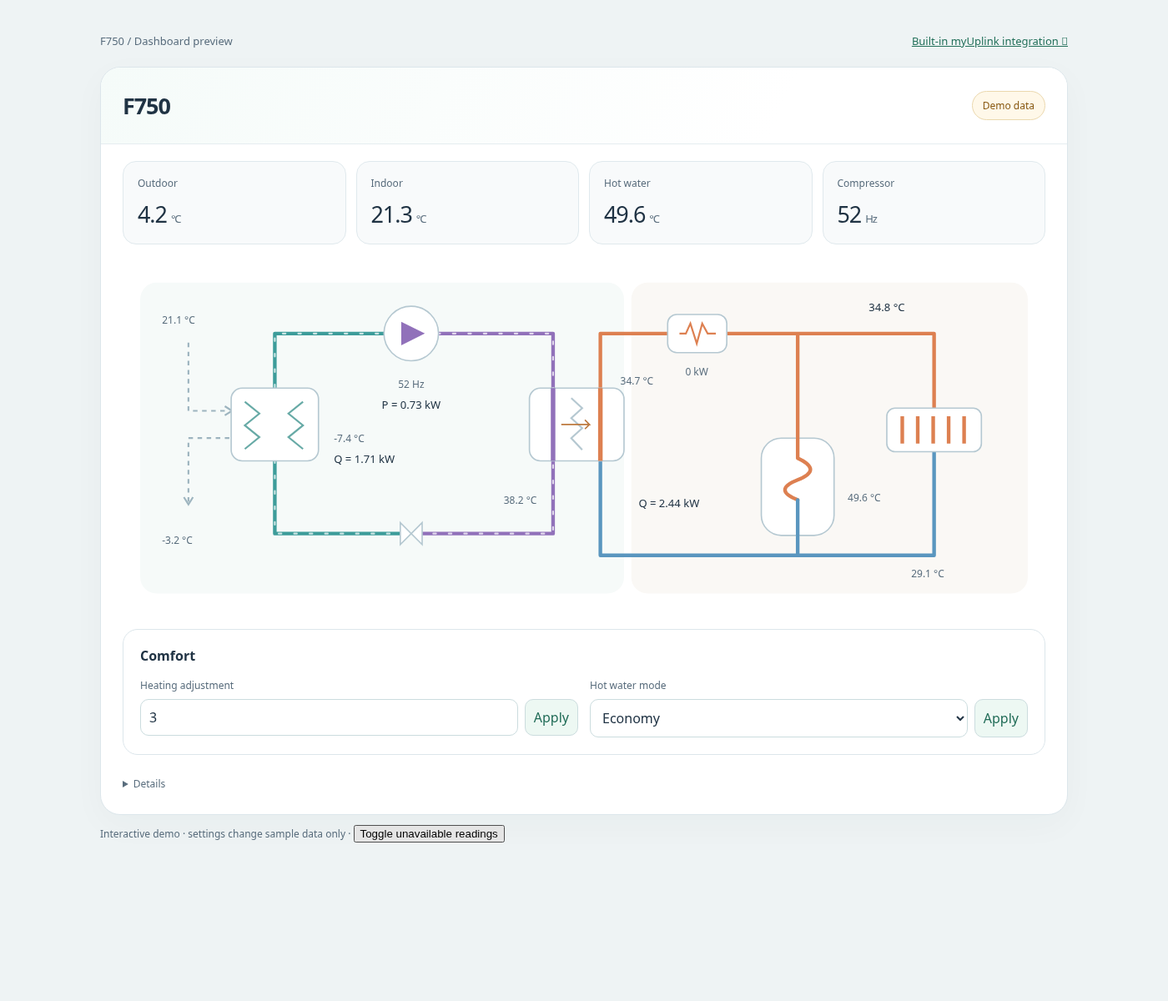
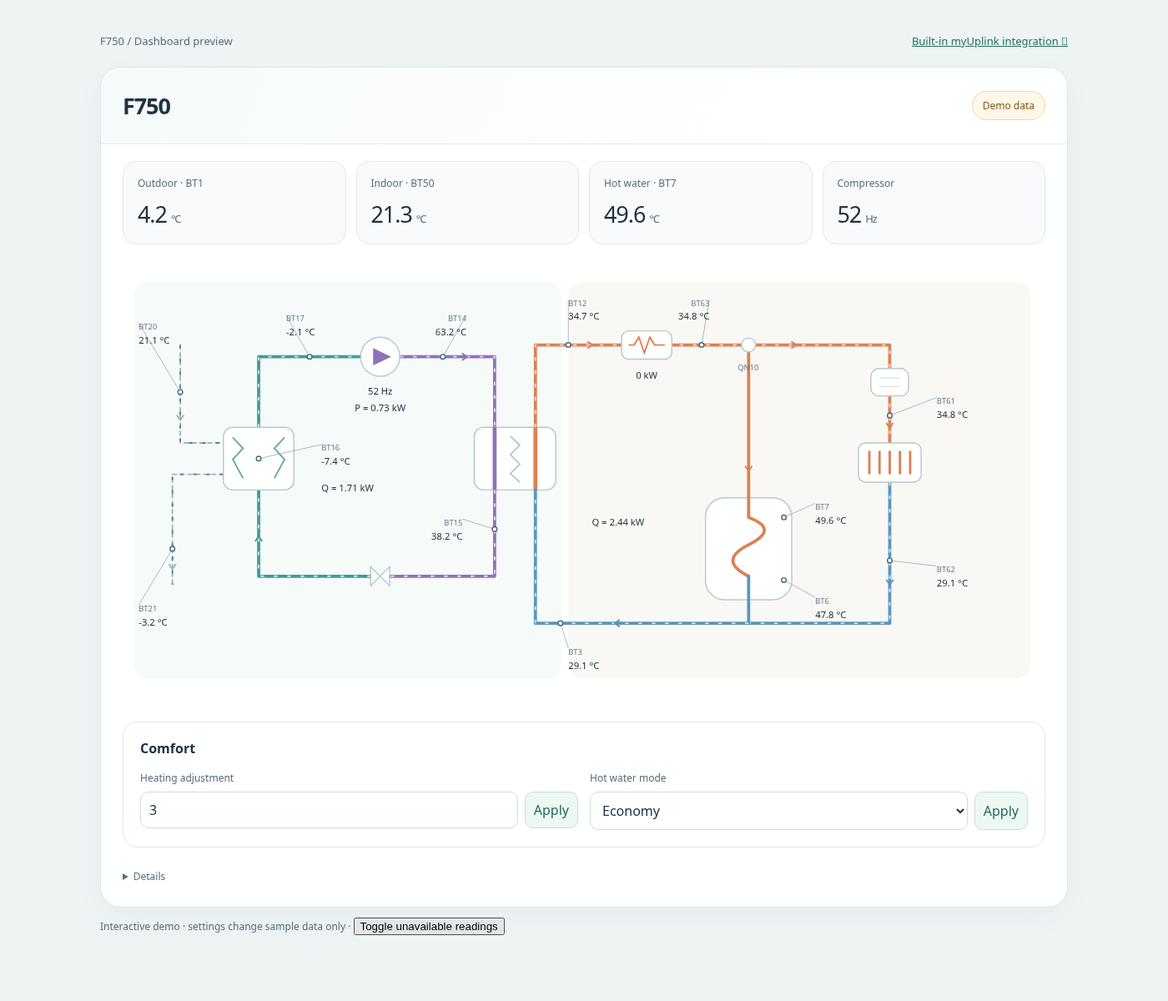
Correct F750 sensor positions and common heater topology; animate directed flows

diff --git a/dist/nibe-f750-card.js b/dist/nibe-f750-card.js
@@ -10,10 +10,12 @@ const readings = {
   operation: ['Operating mode', ''],
   condenser_water_out: ['Condenser water outlet', '°C'], air_flow: ['Extract airflow', ''],
   reference_air_flow: ['Reference airflow', ''],
+  hot_water_charge: ['Hot water control', '°C'], hot_gas: ['Hot gas', '°C'], suction: ['Suction gas', '°C'],
+  heating_supply: ['Heating supply after buffer', '°C'], heating_return: ['Heating return after buffer', '°C'], heater_out: ['Water after immersion heater', '°C'],
 };
 // F750 parameter IDs; myUplink unique IDs are `${device_id}-${parameter_id}`.
 // References and compatibility notes: docs/discovery.md.
-const points = {outdoor:['40004'],room:['40033'],hot_water:['40013','40014'],supply:['40008'],return:['40012'],exhaust_air:['40025'],leaving_air:['40026'],evaporator:['40020'],condenser:['40019'],compressor_frequency:['43136'],heater_power:['43084'],operation:['49994'],condenser_water_out:['40017'],air_flow:['40050'],reference_air_flow:['43124']};
+const points = {outdoor:['40004'],room:['40033'],hot_water:['40013'],supply:['40008'],return:['40012'],exhaust_air:['40025'],leaving_air:['40026'],evaporator:['40020'],condenser:['40019'],compressor_frequency:['43136'],heater_power:['43084'],operation:['49994'],condenser_water_out:['40017'],air_flow:['40050'],reference_air_flow:['43124'],hot_water_charge:['40014'],hot_gas:['40018'],suction:['40022'],heating_supply:['40047'],heating_return:['40048'],heater_out:[]};
 // API names can vary from the older F-series register catalog. Match only
 // explicit measurement names/BT designations, scoped to the selected device.
 const aliases = {
@@ -32,6 +34,12 @@ const aliases = {
   condenser_water_out: [/(?:^| )bt12 (?:condensor|condenser) out$/, /(?:^| )(?:condenser|condensor) (?:out|outlet|water outlet|outlet temperature)(?: bt12)?$/],
   air_flow: [/(?:^| )bs1 air flow$/, /(?:^| )(?:extract|exhaust) air ?flow$/],
   reference_air_flow: [/(?:^| )reference air speed sensor$/, /(?:^| )reference air ?flow$/, /(?:^| )air ?flow (?:ref|reference)$/],
+  hot_water_charge: [/(?:^| )hot water (?:charging|control)(?: bt6)?$/, /(?:^| )bt6 hw load$/],
+  hot_gas: [/(?:^| )(?:bt14 )?hot gas temp(?:erature)?(?: bt14)?$/],
+  suction: [/(?:^| )(?:bt17 )?suction(?: gas)?(?: temp(?:erature)?)?(?: bt17)?$/],
+  heating_supply: [/(?:^| )bt61 supply radiator temp$/, /(?:^| )(?:heating medium flow|supply temperature) after buffer(?: vessel)?(?: bt61)?$/, /(?:^| )bt61$/],
+  heating_return: [/(?:^| )bt62 return radiator temp$/, /(?:^| )(?:heating medium return|return temperature) after buffer(?: vessel)?(?: bt62)?$/, /(?:^| )bt62$/],
+  heater_out: [/(?:^| )bt63$/, /(?:^| )(?:heating medium supply|supply temperature) after (?:immersion|inline) heater(?: bt63)?$/],
 };
 const normalize = text => String(text || '').toLowerCase().replace(/[\u00ad]/g,'').replace(/[^a-z0-9]+/g,' ').trim();
 export function discoverEntities(registry, deviceId, states = {}) {
@@ -88,9 +96,9 @@ const css = `
 ha-card{display:block;background:#fff;color:#203344;border:1px solid #dce6eb;border-radius:24px;overflow:hidden;box-shadow:0 12px 40px #243c4b08}
 header{display:flex;align-items:center;justify-content:space-between;gap:16px;padding:20px 26px;border-bottom:1px solid #e5edf0;background:linear-gradient(115deg,#f5fbf9,#fff 70%)}.eyebrow{font-size:11px;letter-spacing:.17em;text-transform:uppercase;color:#487468;font-weight:700}h1{font-size:27px;font-weight:550;letter-spacing:-.04em;margin:7px 0}h2{font-size:16px;font-weight:600;margin:0}p{color:#596d7d;font-size:13px;line-height:1.6;margin:6px 0}.pill{display:inline-block;border:1px solid #b7ded2;background:#edf8f3;color:#24715b;border-radius:25px;padding:8px 12px;font-size:12px}.demo{color:#895a14;background:#fff8e9;border-color:#ebd8ae}
 .body{padding:20px 26px}.stats{display:grid;grid-template-columns:repeat(4,1fr);gap:12px;margin-bottom:16px}.stat{padding:17px;border:1px solid #e0e9ed;border-radius:16px;background:#f8fafb}.label{color:#596d7d;font-size:12px}.value{font-size:27px;letter-spacing:-.04em;margin-top:10px}.unit{font-size:13px;color:#596d7d;margin-left:5px}.sub{font-size:11px;color:#596d7d;margin-top:6px}
-.panel{border:1px solid #dce6eb;border-radius:18px;padding:20px;min-width:0}.heading{display:flex;justify-content:space-between;gap:10px;align-items:center}.tag{font-size:10px;text-transform:uppercase;letter-spacing:.1em;color:#596d7d}.legend{display:flex;flex-wrap:wrap;gap:10px 22px;padding:14px 0 0;font-size:11px;color:#526777}.legend span{display:flex;gap:7px;align-items:center}.legend i{width:20px;height:3px;border-radius:4px;background:var(--line)}.scheme-scroll{overflow-x:auto;border-radius:12px;scrollbar-color:#adc8c2 #f1f6f5}.scheme-scroll:focus-visible{outline:2px solid #268b73;outline-offset:3px}.scroll-hint{display:none}.portrait{display:none}svg{display:block;width:100%;min-width:820px;height:auto;margin:12px 0}svg text{font-family:inherit;fill:#203344;font-size:12px}svg .muted{fill:#596d7d;font-size:11px}svg .section-label{fill:#637886;font-size:10px;letter-spacing:1.6px;font-weight:600}svg .node{fill:#fff;stroke:#b5c8d1;stroke-width:1.5}svg .pipe{fill:none;stroke-width:4;stroke-linecap:round;stroke-linejoin:round}svg .ref-high{stroke:#9171ba}svg .ref-low{stroke:#3d9c9a}svg .hot{stroke:#dd8051}svg .cold{stroke:#5a96bf}svg .air{stroke:#9db4bf;stroke-width:2;stroke-dasharray:5 5;fill:none}svg .flow{stroke-dasharray:3 14;stroke:#ffffffbb;stroke-width:2;animation:flow 3s linear infinite}svg .flow.paused{animation:none;stroke:transparent}@keyframes flow{to{stroke-dashoffset:-68}}
+.panel{border:1px solid #dce6eb;border-radius:18px;padding:20px;min-width:0}.heading{display:flex;justify-content:space-between;gap:10px;align-items:center}.tag{font-size:10px;text-transform:uppercase;letter-spacing:.1em;color:#596d7d}.legend{display:flex;flex-wrap:wrap;gap:10px 22px;padding:14px 0 0;font-size:11px;color:#526777}.legend span{display:flex;gap:7px;align-items:center}.legend i{width:20px;height:3px;border-radius:4px;background:var(--line)}.scheme-scroll{overflow-x:auto;border-radius:12px;scrollbar-color:#adc8c2 #f1f6f5}.scheme-scroll:focus-visible{outline:2px solid #268b73;outline-offset:3px}.scroll-hint{display:none}.portrait{display:none}svg{display:block;width:100%;min-width:820px;height:auto;margin:12px 0}svg text{font-family:inherit;fill:#203344;font-size:12px}svg .muted{fill:#596d7d;font-size:11px}svg .section-label{fill:#637886;font-size:10px;letter-spacing:1.6px;font-weight:600}svg .node{fill:#fff;stroke:#b5c8d1;stroke-width:1.5}svg .pipe{fill:none;stroke-width:4;stroke-linecap:round;stroke-linejoin:round}svg .ref-high{stroke:#9171ba}svg .ref-low{stroke:#3d9c9a}svg .hot{stroke:#dd8051}svg .cold{stroke:#5a96bf}svg .air{stroke:#9db4bf;stroke-width:2;stroke-dasharray:5 5;fill:none}svg .sensor-dot{fill:#fff;stroke:#466779;stroke-width:1.5}svg .sensor-leader{fill:none;stroke:#a2b5bf;stroke-width:1}svg .sensor-code{font-size:10px;fill:#667c8c}svg .direction{fill:none;stroke-width:2;stroke-linecap:round;stroke-linejoin:round}svg .direction.air{stroke-dasharray:none}svg .flow{stroke-dasharray:3 14;stroke:#ffffffbb;stroke-width:2;animation:flow 3s linear infinite}svg .flow.air-motion{stroke:#527f92}svg .flow.paused{animation:none;stroke:transparent}@keyframes flow{to{stroke-dashoffset:-68}}
 .more{margin-top:18px;color:#596d7d;font-size:12px}.more summary{cursor:pointer;padding:8px 0}.more p{font-size:12px}.more .discovery{margin:10px 0 18px}.more .discovery button{margin-top:8px}.schematic{padding:8px;border:0}.more .metrics{margin:16px 0}.metrics{display:grid;grid-template-columns:repeat(4,minmax(0,1fr));gap:16px 22px;border-top:1px solid #e5edf0;padding-top:18px}.metric{display:flex;flex-direction:column;gap:6px;font-size:12px}.metric span{color:#596d7d}.metric b{font-size:14px;font-weight:550}.controls{margin-top:18px}.control-grid{display:grid;grid-template-columns:1fr 1fr;gap:14px;margin-top:16px}label{display:block;font-size:12px;color:#596d7d;margin-bottom:8px}select,input,button{font:inherit;border:1px solid #cbdcde;border-radius:10px;background:#fff;color:#203344;padding:10px;max-width:100%}select,input{width:100%}button{cursor:pointer;background:#edf8f3;color:#216c57;white-space:nowrap}button:hover{background:#e0f1e9}button:disabled{opacity:.45;cursor:default}.row{display:flex;gap:8px}.notice{font-size:12px;color:#216c57}.notice:not(:empty){margin-top:12px}.empty{padding:12px;border:1px dashed #cbdcde;border-radius:10px;font-size:12px;color:#596d7d}footer{padding-top:18px;color:#596d7d;font-size:11px;line-height:1.6}button:focus-visible,select:focus-visible,input:focus-visible{outline:2px solid #268b73;outline-offset:3px}
-@container(max-width:700px){header,.body{padding:20px}.control-grid{grid-template-columns:1fr}.stats,.metrics{grid-template-columns:repeat(2,minmax(0,1fr))}h1{font-size:23px}.scheme-scroll{overflow:visible}.landscape{display:none}.portrait{display:block;min-width:0}.portrait text{font-size:14px}.portrait .muted{font-size:13px}.portrait .section-label{font-size:10px}.panel{padding:16px}header,.body{padding:16px}.legend{gap:10px 14px}select,input{font-size:16px;min-height:44px}button{min-height:44px}header .pill{flex-shrink:0}.heading{flex-wrap:wrap}}@media(prefers-reduced-motion:reduce){svg .flow{animation:none}}
+@container(max-width:700px){header,.body{padding:20px}.control-grid{grid-template-columns:1fr}.stats,.metrics{grid-template-columns:repeat(2,minmax(0,1fr))}h1{font-size:23px}.scheme-scroll{overflow:visible}.landscape{display:none}.portrait{display:block;min-width:0}.portrait text{font-size:14px}.portrait .muted{font-size:13px}.portrait .section-label{font-size:10px}.portrait .sensor-code{font-size:12px}.panel{padding:16px}header,.body{padding:16px}.legend{gap:10px 14px}select,input{font-size:16px;min-height:44px}button{min-height:44px}header .pill{flex-shrink:0}.heading{flex-wrap:wrap}}@media(prefers-reduced-motion:reduce){svg .sensor-dot{fill:#fff;stroke:#466779;stroke-width:1.5}svg .sensor-leader{fill:none;stroke:#a2b5bf;stroke-width:1}svg .sensor-code{font-size:10px;fill:#667c8c}svg .direction{fill:none;stroke-width:2;stroke-linecap:round;stroke-linejoin:round}svg .direction.air{stroke-dasharray:none}svg .flow{animation:none}}
 `;
 export class NibeF750Card extends HTMLElement {
   constructor() { super(); this.attachShadow({mode:'open'}); this._busy = false; }
@@ -187,112 +195,113 @@ export class NibeF750Card extends HTMLElement {
     finally { this._busy=false; this.shadowRoot.querySelectorAll('[data-apply]').forEach(b=>b.disabled=false); }
   }
   notice(message) { this.shadowRoot.querySelector('[role="status"]').textContent = message; }
+  sensor(id,key,x,y,tx,ty,anchor='start') {
+    return `<g class="sensor" data-sensor="${id}"><title>${id} · ${readings[key][0]}</title><path class="sensor-leader" d="M${x} ${y}L${tx} ${ty-8}"/><circle class="sensor-dot" cx="${x}" cy="${y}" r="3"/><text x="${tx}" y="${ty}" text-anchor="${anchor}"><tspan class="sensor-code">${id}</tspan><tspan x="${tx}" dy="18">${this.value(key)} ${this.available(this.state(key))?this.unit(key):''}</tspan></text></g>`;
+  }
+  diagram(portrait,a) {
+    const prefix=portrait?'p':'l';
+    const pipe=(name,d,color,active)=>`<g data-flow="${name}"><path class="pipe ${color}" d="${d}"/><path class="pipe flow ${active?'':'paused'} ${color==='air'?'air-motion':''}" d="${d}"/></g>`;
+    const arrow=(x,y,angle,color)=>`<path class="direction ${color}" d="M-5 -4L1 0L-5 4" transform="translate(${x} ${y}) rotate(${angle})"/>`;
+    const sensor=(...args)=>this.sensor(...args);
+    const compressor=(x,y)=>`<circle class="node" cx="${x}" cy="${y}" r="25"/><path d="M${x-9} ${y+11}L${x+14} ${y}L${x-9} ${y-11}Z" fill="#9171ba"/><text x="${x}" y="${y+48}" text-anchor="middle">${this.value('compressor_frequency')} ${this.unit('compressor_frequency')}</text><text x="${x}" y="${y+70}" text-anchor="middle">P = ${this.heatValue('compressor')}</text>`;
+    const heater=(x,y)=>`<g data-component="heater"><title>EB1 · common immersion heater before QN10</title><rect class="node" x="${x-32}" y="${y-18}" width="64" height="36" rx="9"/><path d="M${x-23} ${y}H${x-16}L${x-10} ${y-10}L${x-3} ${y+10}L${x+4} ${y-10}L${x+10} ${y}H${x+23}" fill="none" stroke="#dd8051" stroke-width="2"/><text x="${x}" y="${y+43}" text-anchor="middle">${this.value('heater_power')} ${this.unit('heater_power')}</text></g>`;
+    const valve=(x,y)=>`<g data-component="diverter"><title>QN10 · changeover valve, heating or DHW</title><circle class="node" cx="${x}" cy="${y}" r="9"/><text class="sensor-code" x="${x-14}" y="${y+32}">QN10</text></g>`;
+    const radiator=(x,y)=>`<rect class="node" x="${x-40}" y="${y}" width="80" height="50" rx="9"/><path d="M${x-26} ${y+10}V${y+40}M${x-13} ${y+10}V${y+40}M${x} ${y+10}V${y+40}M${x+13} ${y+10}V${y+40}M${x+26} ${y+10}V${y+40}" stroke="#dd8051" stroke-width="3"/>`;
+    const buffer=(x,y)=>`<g data-component="buffer"><title>Heating buffer vessel, simplified</title><rect class="node" x="${x-24}" y="${y}" width="48" height="35" rx="10"/><path d="M${x-13} ${y+12}H${x+13}M${x-13} ${y+23}H${x+13}" stroke="#c8d9df"/></g>`;
+    const shell=portrait?'0 0 400 1110':'0 25 1160 530';
+    const desc='BT20 inlet air and BT21 outlet air are on the air duct. BT14 hot gas, BT17 suction, BT15 liquid line and BT16 evaporator are on the refrigerant side. BT12 is before the common heater; BT63 is after it and before QN10. BT61 and BT62 are on the heating circuit after the buffer. BT7 and BT6 are tank sensors. Arrows show normal flow; motion is illustrative, not measured flow.';
+    return `<svg class="${portrait?'portrait':'landscape'}" viewBox="${shell}" role="img" aria-labelledby="${prefix}-title ${prefix}-desc"><title id="${prefix}-title">Combined F750 refrigerant and hydraulic circuits</title><desc id="${prefix}-desc">${desc}</desc>${portrait?`
+      <rect x="6" y="35" width="388" height="410" rx="18" fill="#f6faf9"/><rect x="6" y="450" width="388" height="650" rx="18" fill="#faf8f5"/>
+      ${pipe('refrigerant-suction','M100 210V130H195','ref-low',a.refrigerant)}
+      ${pipe('refrigerant-discharge','M245 130H345V400H250','ref-high',a.refrigerant)}
+      ${pipe('refrigerant-liquid','M170 400H100V365','ref-high',a.refrigerant)}
+      ${pipe('refrigerant-evaporator','M100 335V270','ref-low',a.refrigerant)}
+      ${pipe('air-inlet','M30 100V230H70','air',a.air)}
+      ${pipe('air-outlet','M70 250H30V350','air',a.air)}
+      ${arrow(30,205,90,'air')}${arrow(30,338,90,'air')}${arrow(310,130,0,'ref-high')}${arrow(100,295,-90,'ref-low')}
+      <rect class="node" x="70" y="210" width="60" height="60" rx="12"/><path d="M80 220L91 232L80 244L91 258M120 220L109 232L120 244L109 258" fill="none" stroke="#67aaa6" stroke-width="2"/>
+      ${compressor(220,130)}<path class="node" d="M89 335L111 365V335L89 365Z"/>
+      <rect class="node" x="170" y="375" width="80" height="80" rx="12"/><path d="M170 400H250" stroke="#9171ba" stroke-width="5"/><path d="M170 432H250" stroke="#dd8051" stroke-width="5"/><path d="M178 413L190 421L202 413L214 421L226 413L240 421" fill="none" stroke="#b5c8d1" stroke-width="2"/>
+      ${sensor('BT20','exhaust_air',30,155,8,65)}
+      ${sensor('BT21','leaving_air',30,310,8,380)}
+      ${sensor('BT17','suction',150,130,140,70)}
+      ${sensor('BT14','hot_gas',300,130,350,70,'end')}
+      ${sensor('BT16','evaporator',100,240,160,235)}<text x="160" y="285">Q = ${this.heatValue('qEvaporator')}</text>
+      ${sensor('BT15','condenser',130,400,210,333,'end')}
+      ${pipe('water-common-supply','M250 432H370V535H220','hot',a.water)}
+      ${pipe('water-heating-supply','M220 535H95V790','hot',a.heating)}
+      ${pipe('water-dhw-supply','M220 535V640H310V875','hot',a.dhw)}
+      ${pipe('water-heating-return','M95 840V1060','cold',a.heating)}
+      ${pipe('water-dhw-coil','M310 875Q340 895 310 915Q280 935 310 955','hot',a.dhw)}
+      ${pipe('water-dhw-return','M310 955V1060H95','cold',a.dhw)}
+      ${pipe('water-common-return','M95 1060H15V432H170','cold',a.water)}
+      ${arrow(370,505,90,'hot')}${arrow(270,535,180,'hot')}${arrow(95,680,90,'hot')}${arrow(310,790,90,'hot')}${arrow(95,1010,90,'cold')}${arrow(225,1060,180,'cold')}${arrow(15,700,-90,'cold')}
+      ${heater(320,535)}${valve(220,535)}${buffer(95,705)}${radiator(95,790)}
+      <rect class="node" x="270" y="850" width="90" height="145" rx="22"/><path class="pipe hot" d="M310 850V875Q340 895 310 915Q280 935 310 955"/><path class="pipe cold" d="M310 955V995"/><path class="pipe flow ${a.dhw?'':'paused'}" d="M310 850V875Q340 895 310 915Q280 935 310 955V995"/>
+      ${sensor('BT12','condenser_water_out',310,432,315,470,'end')}
+      ${sensor('BT3','return',105,432,115,470)}<text x="210" y="510" text-anchor="middle">Q = ${this.heatValue('qCondenser')}</text>
+      ${sensor('BT63','heater_out',250,535,268,595,'end')}
+      ${sensor('BT61','heating_supply',95,765,150,750)}
+      ${sensor('BT62','heating_return',95,990,150,1005)}
+      ${sensor('BT7','hot_water',350,870,380,825,'end')}
+      ${sensor('BT6','hot_water_charge',350,970,380,1020,'end')}
+    `:`
+      <rect x="6" y="35" width="545" height="505" rx="18" fill="#f6faf9"/><rect x="560" y="35" width="590" height="505" rx="18" fill="#faf8f5"/>
+      ${pipe('refrigerant-suction','M165 220V130H295','ref-low',a.refrigerant)}
+      ${pipe('refrigerant-discharge','M345 130H466V220','ref-high',a.refrigerant)}
+      ${pipe('refrigerant-liquid','M466 300V410H332','ref-high',a.refrigerant)}
+      ${pipe('refrigerant-evaporator','M308 410H165V300','ref-low',a.refrigerant)}
+      ${pipe('air-inlet','M65 115V240H120','air',a.air)}${pipe('air-outlet','M120 280H55V420','air',a.air)}
+      ${arrow(65,210,90,'air')}${arrow(55,400,90,'air')}${arrow(430,130,0,'ref-high')}${arrow(165,360,-90,'ref-low')}
+      <rect class="node" x="120" y="220" width="90" height="80" rx="12"/><path d="M132 233L145 247L132 261L145 285M198 233L185 247L198 261L185 285" fill="none" stroke="#67aaa6" stroke-width="2"/>
+      ${compressor(320,130)}<path class="node" d="M308 398L332 422V398L308 422Z"/>
+      <rect class="node" x="440" y="220" width="104" height="80" rx="12"/><path d="M466 220V300" stroke="#9171ba" stroke-width="5"/><path d="M518 220V300" stroke="#dd8051" stroke-width="5"/><path d="M486 231L498 243L486 255L498 267L486 279L498 290" fill="none" stroke="#b5c8d1" stroke-width="2"/>
+      ${sensor('BT20','exhaust_air',65,175,12,95)}${sensor('BT21','leaving_air',55,375,12,455)}
+      ${sensor('BT17','suction',230,130,200,85)}${sensor('BT14','hot_gas',400,130,430,85,'end')}
+      ${sensor('BT16','evaporator',165,260,245,250)}<text x="245" y="302">Q = ${this.heatValue('qEvaporator')}</text>
+      ${sensor('BT15','condenser',466,350,425,345,'end')}
+      ${pipe('water-common-supply','M518 220V115H790','hot',a.water)}
+      ${pipe('water-heating-supply','M790 115H970V240','hot',a.heating)}
+      ${pipe('water-dhw-supply','M790 115V335','hot',a.dhw)}
+      ${pipe('water-heating-return','M970 290V470H790','cold',a.heating)}
+      ${pipe('water-dhw-coil','M790 335Q830 350 790 370Q750 390 790 410','hot',a.dhw)}
+      ${pipe('water-dhw-return','M790 410V470','cold',a.dhw)}
+      ${pipe('water-common-return','M790 470H518V300','cold',a.water)}
+      ${arrow(590,115,0,'hot')}${arrow(850,115,0,'hot')}${arrow(970,220,90,'hot')}${arrow(790,275,90,'hot')}${arrow(970,420,90,'cold')}${arrow(620,470,180,'cold')}
+      ${heater(660,115)}${valve(790,115)}${buffer(970,145)}${radiator(970,240)}
+      <rect class="node" x="735" y="310" width="110" height="130" rx="24"/><path class="pipe hot" d="M790 310V335Q830 350 790 370Q750 390 790 410"/><path class="pipe cold" d="M790 410V440"/><path class="pipe flow ${a.dhw?'':'paused'}" d="M790 310V335Q830 350 790 370Q750 390 790 410V440"/>
+      ${sensor('BT12','condenser_water_out',560,115,560,65)}${sensor('BT63','heater_out',730,115,740,65,'end')}
+      ${sensor('BT3','return',550,470,560,510)}<text x="590" y="345">Q = ${this.heatValue('qCondenser')}</text>
+      ${sensor('BT61','heating_supply',970,205,1030,190)}${sensor('BT62','heating_return',970,390,1030,405)}
+      ${sensor('BT7','hot_water',835,335,875,325)}${sensor('BT6','hot_water_charge',835,415,875,445)}
+    `}</svg>`;
+  }
   render() {
     if (!this.config) return;
     // Preserve an in-progress setting while cloud readings refresh.
     const active = this.shadowRoot.activeElement;
     const drafts = active?.matches('input,select') ? [[active.id, active.value]] : [];
     const running = this.available(this.state('compressor_frequency')) && Number(this.state('compressor_frequency').state)>0;
-    const flow = running ? 'flow' : 'flow paused';
+    const mode=normalize(this.state('operation')?.state);
+    const water=running || (this.available(this.state('heater_power')) && Number(this.state('heater_power').state)>0);
+    const dhw=/hot water|dhw/.test(mode),heating=!dhw && /heating/.test(mode);
+    const air=['air_flow','reference_air_flow'].some(k=>this.available(this.state(k)) && Number(this.state(k).state)>0);
+    const activity={refrigerant:running,water,heating:water&&heating,dhw:water&&dhw,air};
     this._heat=calculateHeat(this._hass?.states || {},this.config.entities);
     const mapped = Object.values(this.config.entities), available = mapped.filter(id=>this.available(this._hass?.states[id])).length;
     this.shadowRoot.innerHTML = `<style>${css}</style><ha-card>
       <header><div><h1>${esc(this.config.title)}</h1></div><span class="pill ${this.config.demo?'demo':''}" title="${available}/${mapped.length} readings available">${this.config.demo?'Demo data':this.available(this.state('operation'))?this.value('operation'):'myUplink'}</span></header>
-      <div class="body"><div class="stats">${['outdoor','room','hot_water','compressor_frequency'].map(k=>`<div class="stat"><div class="label">${readings[k][0]}</div><div class="value">${this.value(k)}<span class="unit">${this.available(this.state(k))?this.unit(k):''}</span></div></div>`).join('')}</div>
+      <div class="body"><div class="stats">${['outdoor','room','hot_water','compressor_frequency'].map(k=>`<div class="stat"><div class="label">${readings[k][0]}${k==='outdoor'?' · BT1':k==='room'?' · BT50':k==='hot_water'?' · BT7':''}</div><div class="value">${this.value(k)}<span class="unit">${this.available(this.state(k))?this.unit(k):''}</span></div></div>`).join('')}</div>
       <section class="panel schematic">
       <div class="scheme-scroll" tabindex="0" role="region" aria-label="Combined circuit diagram">
-      <svg class="landscape" viewBox="0 65 1000 355" role="img" aria-labelledby="scheme-title scheme-description">
-      <title id="scheme-title">Combined F750 refrigerant and hydraulic circuits</title><desc id="scheme-description">Extract air transfers heat to the evaporator. Refrigerant flows through the compressor, condenser and expansion valve. The condenser transfers heat across separate fluid channels into heating water serving space heating and the hot water tank. Paths are conceptual; flow is not measured.</desc>
-      <rect x="12" y="74" width="532" height="342" rx="18" fill="#f6faf9"/>
-      <rect x="552" y="74" width="436" height="342" rx="18" fill="#faf8f5"/>
-      
-      <!-- Refrigerant loop terminates on the left side of the shared exchanger. -->
-      <path class="pipe ref-low" d="M160 190V130H280"/>
-      <path class="pipe ref-high" d="M340 130H466V190M466 270V350H322"/>
-      <path class="pipe ref-low" d="M298 350H160V270"/>
-      <path class="pipe ${flow}" d="M160 190V130H466V350H160V270"/>
-      <!-- Water loop terminates on the right side: no shared fluid junction. -->
-      <path class="pipe hot" d="M518 190V130H885V212M735 130V266"/>
-      <path class="pipe cold" d="M885 260V374H518V270M735 334V374"/>
-      <!-- Air side is separate from the closed refrigerant loop. -->
-      <path class="air" d="M65 140V215H110M110 245H65V318"/>
-      <path d="M105 210L113 215L105 220M60 310L65 318L70 310" fill="none" stroke="#9db4bf" stroke-width="2"/>
-      <text class="muted" x="36" y="119"><title>Exhaust air</title>${this.value('exhaust_air')} ${this.unit('exhaust_air')}</text>
-      <text class="muted" x="36" y="361"><title>Leaving air</title>${this.value('leaving_air')} ${this.unit('leaving_air')}</text>
-      <rect class="node" x="112" y="190" width="96" height="80" rx="12"/>
-      <path d="M127 205L143 218L127 231L143 244L127 257M191 205L175 218L191 231L175 244L191 257" fill="none" stroke="#67aaa6" stroke-width="2"/>
-      <text class="muted" x="225" y="249"><title>Evaporator</title>${this.value('evaporator')} ${this.unit('evaporator')}</text><text x="225" y="272"><title>Estimated evaporator sensible heat</title>Q = ${this.heatValue('qEvaporator')}</text>
-      <circle class="node" cx="310" cy="130" r="30"/><path d="M299 143L325 130L299 117Z" fill="#9171ba"/>
-      <text class="muted" x="310" y="190" text-anchor="middle"><title>Compressor frequency</title>${this.value('compressor_frequency')} ${this.unit('compressor_frequency')}</text><text x="310" y="213" text-anchor="middle"><title>Estimated compressor power</title>P = ${this.heatValue('compressor')}</text>
-      <path class="node" d="M298 338L322 362V338L298 362Z"/>
-      
-      <!-- Condenser: two isolated channels and a thermal transfer interface. -->
-      <rect class="node" x="440" y="190" width="104" height="80" rx="12"/>
-      <path d="M466 190V270" stroke="#9171ba" stroke-width="5"/><path d="M518 190V270" stroke="#dd8051" stroke-width="5"/>
-      <path d="M486 201L498 212L486 223L498 234L486 245L498 258" fill="none" stroke="#b5c8d1" stroke-width="2"/>
-      <path d="M475 230H506L501 225M506 230L501 235" fill="none" stroke="#bd793e" stroke-width="1.5"/>
-      
-      <text x="560" y="321"><title>Estimated condenser heat</title>Q = ${this.heatValue('qCondenser')}</text>
-      <text class="muted" x="448" y="317" text-anchor="end"><title>Condenser</title>${this.value('condenser')} ${this.unit('condenser')}</text>
-      <text class="muted" x="540" y="186"><title>BT12 water outlet</title>${this.value('condenser_water_out')} ${this.unit('condenser_water_out')}</text>
-      <!-- Auxiliary heater and distribution are illustrative, not valve telemetry. -->
-      <rect class="node" x="592" y="109" width="65" height="42" rx="10"/><path d="M605 130H612L617 119L624 141L630 119L636 130H645" fill="none" stroke="#dd8051" stroke-width="2"/>
-      <text class="muted" x="624" y="176" text-anchor="middle"><title>Heater power</title>${this.value('heater_power')} ${this.unit('heater_power')}</text>
-      <text x="833" y="105" text-anchor="middle"><title>Supply</title>${this.value('supply')} ${this.unit('supply')}</text>
-      <rect class="node" x="833" y="212" width="104" height="48" rx="9"/>
-      <path d="M850 221V251M867 221V251M884 221V251M901 221V251M918 221V251" stroke="#dd8051" stroke-width="4"/>
-      
-      <rect class="node" x="695" y="245" width="80" height="107" rx="22"/>
-      <path class="pipe hot" d="M735 245V267Q763 280 735 291Q707 302 735 313"/><path class="pipe cold" d="M735 313V352"/>
-      <text class="muted" x="790" y="315"><title>Hot water</title>${this.value('hot_water')} ${this.unit('hot_water')}</text>
-      <text class="muted" x="878" y="398" text-anchor="middle"><title>Return</title>${this.value('return')} ${this.unit('return')}</text>
-      </svg>
-      <svg class="portrait" viewBox="0 0 340 800" role="img" aria-labelledby="portrait-title portrait-desc">
-      <title id="portrait-title">Combined F750 refrigerant and hydraulic circuits</title><desc id="portrait-desc">Portrait layout: refrigerant heat recovery above, heating water distribution below. Separate fluid channels at the central condenser transfer heat between the circuits.</desc>
-      <rect x="6" y="8" width="328" height="345" rx="18" fill="#f6faf9"/>
-      <rect x="6" y="357" width="328" height="435" rx="18" fill="#faf8f5"/>
-      
-      <path class="pipe ref-low" d="M70 160V105H146"/>
-      <path class="pipe ref-high" d="M194 105H270V320H213M127 320H70V289"/>
-      <path class="pipe ref-low" d="M70 271V226"/>
-      <path class="pipe ${flow}" d="M70 160V105H270V320H70V226"/>
-      <rect class="node" x="40" y="160" width="60" height="66" rx="12"/>
-      <path d="M50 172L61 184L50 196L61 211M89 172L78 184L89 196L78 211" fill="none" stroke="#67aaa6" stroke-width="2"/>
-      <text class="muted" x="115" y="209"><title>Evaporator</title>${this.value('evaporator')} ${this.unit('evaporator')}</text><text x="115" y="230"><title>Estimated evaporator sensible heat</title>Q = ${this.heatValue('qEvaporator')}</text>
-      <text class="muted" x="22" y="64"><title>Exhaust air</title>${this.value('exhaust_air')} ${this.unit('exhaust_air')}</text>
-      <path class="air" d="M26 71V185H39M39 208H22V239"/>
-      <text class="muted" x="115" y="265"><title>Leaving air</title>${this.value('leaving_air')} ${this.unit('leaving_air')}</text>
-      <circle class="node" cx="170" cy="105" r="24"/><path d="M161 116L184 105L161 94Z" fill="#9171ba"/>
-      <text class="muted" x="170" y="146" text-anchor="middle"><title>Compressor frequency</title>${this.value('compressor_frequency')} ${this.unit('compressor_frequency')}</text><text x="170" y="167" text-anchor="middle"><title>Estimated compressor power</title>P = ${this.heatValue('compressor')}</text>
-      <path class="node" d="M59 271L81 289H59L81 271Z"/>
-      <!-- The condenser bridges the stacked circuits with isolated channels. -->
-      
-      <rect class="node" x="127" y="301" width="86" height="78" rx="12"/>
-      <path d="M127 320H213" stroke="#9171ba" stroke-width="5"/><path d="M127 361H213" stroke="#dd8051" stroke-width="5"/>
-      <path d="M137 337L150 346L163 337L176 346L189 337L202 346" fill="none" stroke="#b5c8d1" stroke-width="2"/>
-      
-      <text class="muted" x="170" y="407" text-anchor="middle"><title>Condenser</title>${this.value('condenser')} ${this.unit('condenser')}</text>
-      <text class="muted" x="277" y="430" text-anchor="end"><title>BT12 water outlet</title>${this.value('condenser_water_out')} ${this.unit('condenser_water_out')}</text>
-      <text x="170" y="427" text-anchor="middle"><title>Estimated condenser heat</title>Q = ${this.heatValue('qCondenser')}</text>
-      <path class="pipe hot" d="M213 361H300V479H70V559M270 479V656"/>
-      <path class="pipe cold" d="M70 608V755H22V361H127M270 710V755H70"/>
-      <rect class="node" x="147" y="462" width="65" height="34" rx="9"/>
-      <path d="M157 479H163L169 470L176 488L184 470L190 479H201" fill="none" stroke="#dd8051" stroke-width="2"/>
-      <text x="170" y="524" text-anchor="middle"><title>Heater power</title>${this.value('heater_power')} ${this.unit('heater_power')}</text>
-      <rect class="node" x="29" y="559" width="82" height="49" rx="9"/>
-      <path d="M44 569V598M57 569V598M70 569V598M83 569V598M96 569V598" stroke="#dd8051" stroke-width="3"/>
-      <text class="muted" x="127" y="602"><title>Supply</title>${this.value('supply')} ${this.unit('supply')}</text>
-      <rect class="node" x="237" y="641" width="66" height="84" rx="18"/>
-      <path class="pipe hot" d="M270 641V656Q292 668 270 681Q248 693 270 701"/><path class="pipe cold" d="M270 701V725"/>
-      <text class="muted" x="91" y="697"><title>Hot water</title>${this.value('hot_water')} ${this.unit('hot_water')}</text>
-      <text class="muted" x="170" y="779" text-anchor="middle"><title>Return</title>${this.value('return')} ${this.unit('return')}</text>
-      </svg></div>
+      ${this.diagram(false,activity)}${this.diagram(true,activity)}</div>
       </section>
       <section class="panel controls"><h2>Comfort</h2><div class="control-grid">${this.control('heating','Heating adjustment')}${this.control('hot_water','Hot water mode')}</div><div class="notice" role="status" aria-live="polite"></div></section>
 
       <details id="details" class="more" ${this._detailsOpen || (!this._manual && this._discovered && !this._selectedDevice)?'open':''}><summary>Details</summary>
       ${!this._manual ? `<div class="discovery"><p>${esc(this._discoveryMessage)}</p>${this._devices?.length>1 ? `<label for="device">Heat pump</label><select id="device"><option value="">Choose a heat pump</option>${this._devices.map(d=>`<option value="${esc(d.id)}" ${d.id===(this._selectedDevice || this.config.device_id)?'selected':''}>${esc(d.name_by_user || d.name || d.model || d.id)}</option>`).join('')}</select>`:''}<button id="discover">Refresh discovery</button></div>`:''}
-      <div class="metrics">${['reference_air_flow','electrical_power','cop','operation'].map(k=>this.metric(k)).join('')}</div>
+      <div class="metrics">${['reference_air_flow','supply','electrical_power','cop','operation'].map(k=>this.metric(k)).join('')}</div>
+      <p>Arrows show normal flow. Animation is illustrative, not measured flow; QN10 selects heating or DHW. The common heater is upstream of both branches. BT30 is a backup thermostat, not a displayed temperature sensor. BT1/BT50 are outside/room sensors in the top cards.</p>
       <p>Q and P are estimates. Air-side Q excludes condensation/freezing heat. Condenser Q = evaporator Q + P; auxiliary heat is separate.</p>
       <p>P = f × [0.0161 + 0.000208 × (BT12 − 45)] kW. Air Q = 0.000335 × m³/h × ΔT.</p>
       </details></div></ha-card>`;

diff --git a/demo/index.html b/demo/index.html
@@ -2,7 +2,7 @@
 <html lang="en"><head><meta charset="utf-8"><meta name="viewport" content="width=device-width, initial-scale=1"><title>NIBE F750 · Dashboard preview</title><style>body{margin:0;background:#eef3f4;color:#203344;font-family:Inter,system-ui,sans-serif}main{max-width:1160px;margin:40px auto;padding:0 18px}nav{display:flex;justify-content:space-between;margin-bottom:22px;font-size:13px;color:#596d7d}a{color:#24715b}h1{font-weight:500}button{cursor:pointer}</style></head><body><main><nav><span>F750 / Dashboard preview</span><a href="https://www.home-assistant.io/integrations/myuplink/">Built-in myUplink integration ↗</a></nav><nibe-f750-card></nibe-f750-card><p style="font-size:12px;color:#596d7d">Interactive demo · settings change sample data only · <button id="unavailable">Toggle unavailable readings</button></p></main><script type="module">
 import '../dist/nibe-f750-card.js';
 const card = document.querySelector('nibe-f750-card');
-const values = {outdoor:4.2,room:21.3,hot_water:49.6,supply:34.8,return:29.1,exhaust_air:21.1,leaving_air:-3.2,evaporator:-7.4,condenser:38.2,compressor_frequency:52,heater_power:0,electrical_power:1.1,cop:3.4,condenser_water_out:34.7,air_flow:180,reference_air_flow:210,operation:'Space heating'};
+const values = {outdoor:4.2,room:21.3,hot_water:49.6,hot_water_charge:47.8,hot_gas:63.2,suction:-2.1,heating_supply:34.8,heating_return:29.1,heater_out:34.8,supply:34.8,return:29.1,exhaust_air:21.1,leaving_air:-3.2,evaporator:-7.4,condenser:38.2,compressor_frequency:52,heater_power:0,electrical_power:1.1,cop:3.4,condenser_water_out:34.7,air_flow:180,reference_air_flow:210,operation:'Space heating'};
 const units = {compressor_frequency:'Hz',heater_power:'kW',electrical_power:'kW',cop:'',operation:'',condenser_water_out:'°C',air_flow:'m³/h',reference_air_flow:'M3/h'};
 const states = Object.fromEntries(Object.entries(values).map(([key,value])=>[`sensor.demo_${key}`,{state:String(value),attributes:{unit_of_measurement:units[key]??'°C'}}]));
 states['number.demo_heating']={state:'0',attributes:{min:-10,max:10,step:1,friendly_name:'Heating curve offset'}};

diff --git a/README.md b/README.md
@@ -7,7 +7,7 @@ A Home Assistant custom Lovelace card for a NIBE F750 connected through **Home A
 ## First release
 
 - Compact light dashboard with outdoor, indoor, hot-water and compressor readings. The diagram uses values beside the components and simple `Q = … kW` / `P = … kW` annotations. Extra readings, estimate notes and discovery settings are under **Details**.
-- One combined refrigerant and hydraulic schematic with mapped temperatures and a shared condenser heat exchanger. Refrigerant and water paths stay separate. Moving markers indicate compressor operation only; water flow and branch selection are not inferred. On narrow cards and iPhone portrait screens, the schematic automatically becomes a vertical layout with heat recovery above heat distribution; no horizontal scrolling.
+- One combined refrigerant and hydraulic schematic with mapped temperatures and a shared condenser heat exchanger. Refrigerant and water paths stay separate. Static arrows show normal direction; animated air, refrigerant and water paths illustrate operation and reported heating/DHW priority. Motion is not a flow measurement. Compact BT sensor markers follow the [manual-based location guide](docs/schematic.md). On narrow cards and iPhone portrait screens, the schematic automatically becomes a vertical layout with heat recovery above heat distribution; no horizontal scrolling.
 - Manual heating adjustment and hot-water mode through mapped `number` / `select` entities. Values and limits come from Home Assistant. Every write asks for confirmation and reports service errors.
 - Automatic discovery by myUplink parameter ID, with a device-scoped measurement-name fallback for API variations (including `sensor.vp_current_compressor_frequency`). Renamed entities still match stable IDs or original names. No manual sensor list required.
 - Diagram annotations show compressor P estimated with the supplied frequency/BT12 formula, sensible evaporator Q from reference airflow, and condenser Q derived as their sum. Corrupt water-flow readings are excluded. See [heat calculations](docs/heat-calculations.md).
@@ -19,7 +19,7 @@ A Home Assistant custom Lovelace card for a NIBE F750 connected through **Home A
 1. Set up [the built-in myUplink integration](https://www.home-assistant.io/integrations/myuplink/) under **Settings → Devices & services**. Connect your F750 to your myUplink account first. Enter OAuth credentials in Home Assistant, never in this card or the repository.
 2. Available data and writable controls depend on the equipment, firmware, API and subscription. Some entities may need enabling. myUplink normally updates every 60 seconds; this is a cloud dashboard, not real-time telemetry.
 3. Copy `dist/nibe-f750-card.js` to `/config/www/nibe-f750-card.js`.
-4. Under **Settings → Dashboards → Resources**, add `/local/nibe-f750-card.js?v=0.9.0` as a **JavaScript module**. Enable Advanced Mode in your profile if Resources is hidden.
+4. Under **Settings → Dashboards → Resources**, add `/local/nibe-f750-card.js?v=0.10.0` as a **JavaScript module**. Enable Advanced Mode in your profile if Resources is hidden.
 5. Add a manual dashboard card with just:
 
 ```yaml
@@ -39,7 +39,7 @@ Manual mapping is an optional advanced override: providing `entities:` replaces 
 | Key | Meaning |
 | --- | --- |
 | `outdoor`, `room` | Outdoor and room temperature |
-| `hot_water` | Your selected domestic hot-water temperature sensor |
+| `hot_water`, `hot_water_charge` | BT7 tank display and BT6 tank control temperatures, kept separate |
 | `supply`, `return` | Heating-water flow and return temperatures |
 | `exhaust_air`, `leaving_air` | Extract air before recovery and discharge air after recovery |
 | `evaporator`, `condenser` | Evaporator and condenser refrigerant outlet (BT15 liquid line), if exposed |
@@ -48,6 +48,8 @@ Manual mapping is an optional advanced override: providing `entities:` replaces 
 | `electrical_power`, `cop` | Optional measured input power and separately calculated/measured COP |
 | `operation` | Reported operating mode |
 | `condenser_water_out` | BT12 water outlet temperature, used with actual compressor frequency for estimated P |
+| `hot_gas`, `suction` | BT14 compressor discharge and BT17 suction temperatures |
+| `heating_supply`, `heating_return`, `heater_out` | BT61/BT62 after-buffer temperatures and BT63 after immersion heater |
 | `air_flow` | BS1 airflow with volume/time units, for the sensible-only evaporator estimate |
 | `reference_air_flow` | Automatically discovers `sensor.vp_reference_air_speed_sensor` and equivalents; takes precedence for a clearly labeled reference-airflow sensible evaporator Q estimate |
 

diff --git a/docs/schematic.md b/docs/schematic.md
@@ -1,0 +1,42 @@
+# F750 schematic and sensor positions
+
+Checked against NIBE's **Installatörshandbok, F750 Koppar, IHB SV 2218-2, 531385-2**, printed pages 11–12 (component/sensor definitions and locations) and 14 (system principle): [official NIBE PDF](https://assetstore.nibe.se/hcms/v2.4/entity/document/330612/storage/MzMwNjEyLzAvbWFzdGVy/download/Installat%C3%B6rshandbok_Fr%C3%A5nluftsv%C3%A4rmepumpar_F750_531385-2.pdf).
+
+This is a functional dashboard schematic. The buffer is simplified; secondary circulation pumps, bypasses, isolation valves, safety devices and variant-specific connections are omitted. It is not a service piping drawing. The heating-water circuit is separate from potable tank water and from refrigerant. The two primary-water branches represent QN10's alternative destinations, not simultaneous measured circulation.
+
+## Temperature markers
+
+A small circle marks the measuring location. A leader connects it to the BT identifier and current value. Missing entities show — at the documented location, not an inferred temperature.
+
+| Marker | Location |
+| --- | --- |
+| BT1 | Outdoor sensor, top outdoor card |
+| BT50 | Room sensor, top indoor card |
+| BT20 | Inlet/extract air duct before evaporator |
+| BT21 | Outlet/discharge air duct after evaporator, outside refrigerant loop |
+| BT16 | Evaporator |
+| BT17 | Suction gas entering compressor |
+| BT14 | Hot gas leaving compressor |
+| BT15 | Liquid line after condenser, before expansion valve |
+| BT12 | Heating water leaving condenser, before immersion heater |
+| BT63 | Water after immersion heater, before heating/DHW changeover |
+| BT61 | Heating flow after buffer vessel |
+| BT62 | Heating return after buffer vessel |
+| BT3 | Common water return into condenser |
+| BT7 | Tank display sensor, upper tank position |
+| BT6 | Tank control sensor, lower tank position |
+
+BT30 is a backup-heating thermostat; it is not represented as an independent telemetry temperature. The integration's optional generic BT2/system-supply reading remains under Details rather than being relabeled as BT61 or BT63. BT6 and BT7 are separately discovered; missing BT7 no longer falls back to BT6 under the wrong marker.
+
+The older register catalog supplies IDs for BT6, BT7, BT14, BT17, BT61 and BT62. No verified BT63 register ID was found in that catalog, so BT63 discovery uses the explicit BT63 name designation, scoped to the selected myUplink device. No numeric ID is guessed.
+
+## Direction and animation
+
+- Air: inlet duct → evaporator air side → outlet duct. BT21 and its value stay outside the refrigerant loop.
+- Refrigerant: evaporator → compressor → condenser → expansion valve → evaporator.
+- Common water supply: condenser → BT12 → immersion heater (EB1) → BT63 → QN10 → selected heating or tank-coil branch → common return → BT3 → condenser.
+- The heating branch includes a simplified buffer before BT61. BT62 marks its return. BT6/BT7 measure stored tank water, not the primary-water coil.
+
+Static chevrons show normal design direction. Animated dashes follow path direction. Refrigerant motion follows positive compressor frequency; water motion illustrates operation when compressor or auxiliary heater is active. Heating/DHW branch motion uses the reported priority, and stops when the branch is unknown or unselected. Air motion uses a positive available airflow/reference reading. A reference value does not prove actual fan/air movement. No animation claims measured flow or an observed valve/pump state. Reduced-motion preference stops dashes while retaining direction chevrons.
+
+The compressor-power and heat estimates are unchanged; see [heat calculations](heat-calculations.md).

diff --git a/docs/discovery.md b/docs/discovery.md
@@ -10,7 +10,7 @@ The card excludes disabled entities and other integrations, scopes every match t
 | --- | --- | --- |
 | Outdoor | 40004 | BT1 outdoor temperature |
 | Indoor | 40033 | BT50 room temperature, system 1 |
-| Hot water | 40013, fallback 40014 | BT7 tank top, fallback BT6 charging |
+| Hot water | 40013 | BT7 tank display sensor; not substituted with BT6 |
 | Supply | 40008 | BT2 heating supply, system 1 |
 | Return | 40012 | BT3 return |
 | Extract air | 40025 | BT20 exhaust/extract air before recovery |
@@ -23,6 +23,10 @@ The card excludes disabled entities and other integrations, scopes every match t
 | Condenser water outlet | 40017 | BT12, before auxiliary heating |
 | Reference airflow | 43124 | `reference_air_speed_sensor`, reference airflow / airflow ref aliases; sensible-Q estimate requires physical volume/time units |
 | Airflow | 40050 | BS1, requires physical volume/time units (unitless readings are not assumed to be m³/h) |
+| Tank control temperature | 40014 | BT6, separate from BT7 |
+| Hot gas / suction | 40018 / 40022 | BT14 after compressor / BT17 before compressor |
+| Heating flow / return | 40047 / 40048 | BT61 / BT62 after buffer |
+| Heater outlet | Name only | Explicit BT63 designation, no numeric register guessed |
 | Heating adjustment | 47011 | Heating curve offset, system 1; writable `number` only |
 | Hot water mode | 47041 | Comfort mode; writable `select` or `number` only |
 
@@ -35,3 +39,5 @@ The register list documents the F750 parameter semantics; it does not guarantee 
 - [F750 register data, python-nibe](https://github.com/yozik04/nibe/blob/master/nibe/data/f750.csv): F750 database 8310, parameter IDs and descriptions (2020-06-24).
 
 Browser tests use registry fixtures representing that source format, including renamed entities, disabled entities, another integration, multiple devices, the reported `sensor.vp_current_compressor_frequency` naming pattern with an unknown parameter ID, target/limit exclusions and ambiguous-name rejection. Responsive layout checks cover 375, 390 and 430 pixel portrait widths in Chromium; these are not on-device Safari tests. Actual discovery on the owner's F750 has not yet been verified.
+
+Sensor locations and flow presentation: [manual-based schematic guide](schematic.md).
